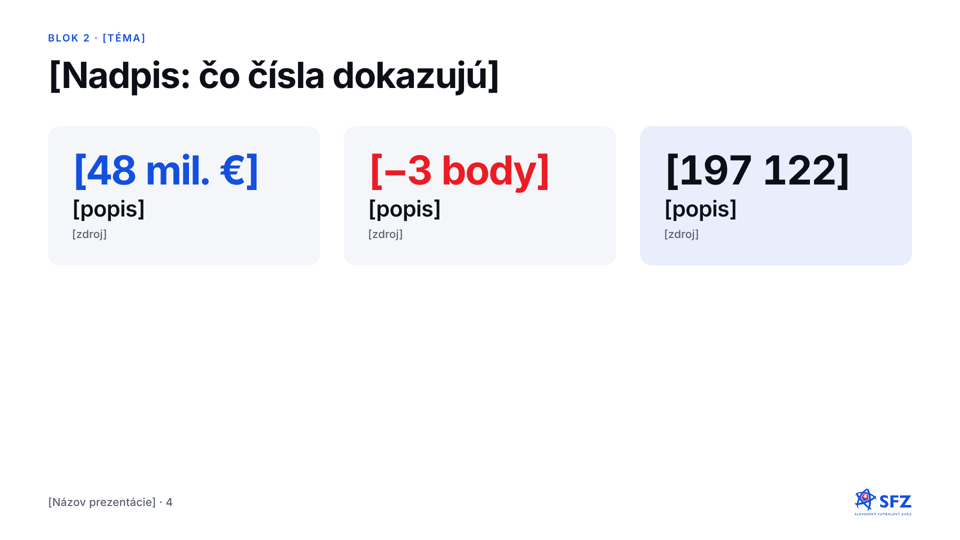
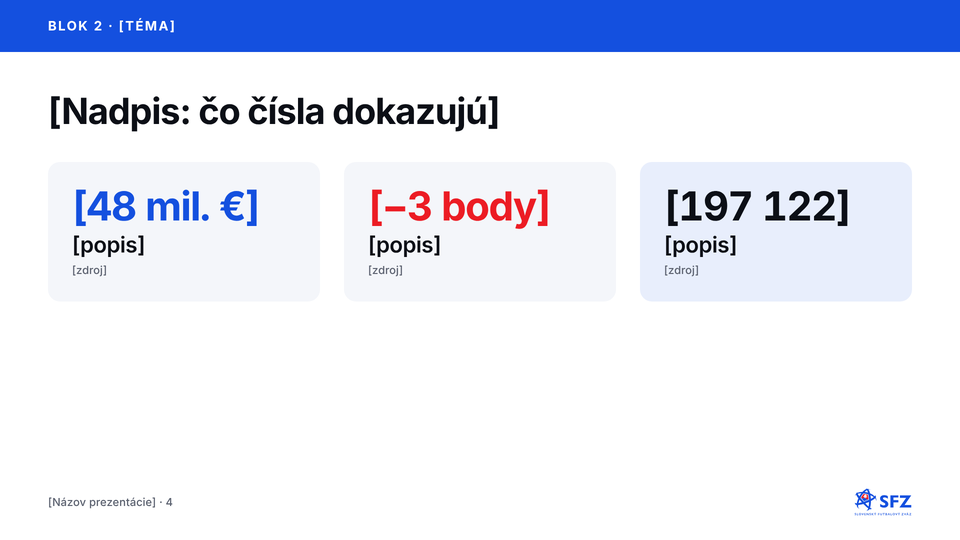
feat(prezentacie): modrý pás v hlavičke a zoznam s linkou LinkList (v1.3.0)
- obsahový slajd má hore modrý pás s textom „Blok · téma“ (SlideContent, šablóny 03 – 06)
- nový vzor LinkList namiesto klasických odrážok: linka, tučný začiatok, vysvetlenie
- tokeny slide-band, slide-list-title, slide-list-text, slide-band-height
- brand book, skill sfz-prezentacia, náhľady artefaktu a šablón

Claude-Session: https://claude.ai/code/session_01EYacRGPfmiPsmKofyGSWUe

diff --git a/docs/artefakt/components/SlideContent/preview.html b/docs/artefakt/components/SlideContent/preview.html
@@ -1,33 +1,32 @@
-<!-- @dsCard group="Slajdy" height=320 width=1920 subtitle="Bežný slajd s obsahom" -->
+<!-- @dsCard group="Slajdy" height=320 width=1920 subtitle="Bežný slajd s modrým pásom a zoznamom s linkou" -->
 <style>
 *{box-sizing:border-box;margin:0}
 body{font-family:var(--font-sans);color:var(--ink);background:var(--surface);-webkit-font-smoothing:antialiased}
-.slide{width:1920px;height:1080px;position:relative;overflow:hidden;padding:64px 96px}
-.slide.blue{background:var(--surface-brand);color:var(--on-brand)}
-.foot{position:absolute;left:96px;right:96px;bottom:48px;display:flex;justify-content:space-between;align-items:center}
+.slide{width:1920px;height:1080px;position:relative;overflow:hidden;padding:184px 128px 160px;display:flex;flex-direction:column;gap:48px}
+.band{position:absolute;left:0;top:0;width:100%;height:var(--slide-band-height);background:var(--surface-brand);display:flex;align-items:center;padding:0 128px}
+.band p{color:var(--on-brand);text-transform:uppercase}
+.foot{position:absolute;left:128px;right:128px;bottom:64px;display:flex;justify-content:space-between;align-items:center}
 .foot img{height:56px}
-.eyebrow{text-transform:uppercase;color:var(--brand-blue)}
-.blue .eyebrow{color:var(--on-brand-muted)}
 .muted{color:var(--ink-muted)}
-.blue .muted{color:var(--on-brand-muted)}
 .tn{font-variant-numeric:tabular-nums}
+.ll{display:flex;flex-direction:column;gap:20px}
+.li{border-left:6px solid var(--brand-blue-ink);padding-left:24px;display:flex;flex-direction:column;gap:4px}
 </style>
 <div class="slide">
-  <div class="slide-eyebrow eyebrow" style="margin-bottom:24px">Blok 1 · Stav v roku 2010</div>
-  <h1 class="slide-h1" style="max-width:1500px;text-wrap:balance">„44 futbalov“ – každý zväz si viedol agendu po svojom</h1>
-  <div style="display:grid;grid-template-columns:7fr 5fr;gap:48px;margin-top:64px">
-    <ul class="slide-body" style="padding-left:40px;display:grid;gap:16px">
-      <li>46 organizácií: SFZ, ÚLK, futsal, 4 regionálne a 38 oblastných zväzov</li>
-      <li>Papierové zápisy poštou, oficiálne výsledky vo štvrtok</li>
-      <li>Šeky, rady na preukazy, e‑mail nebol oficiálne uznaný</li>
-      <li>Finančná disciplína klubov takmer nulová</li>
-    </ul>
+  <div class="band"><p class="slide-band">Blok 1 · Rok 2010</p></div>
+  <h1 class="slide-h1" style="max-width:1600px;text-wrap:balance">„44 futbalov“: každý zväz si viedol agendu po svojom</h1>
+  <div style="display:grid;grid-template-columns:7fr 5fr;gap:48px">
+    <div class="ll">
+      <div class="li"><div class="slide-list-title">Futbal je malá „štátna správa“</div><div class="slide-list-text muted">SFZ, ÚLK, futsal, plážový futbal, 4 regionálne a 38 oblastných zväzov</div></div>
+      <div class="li"><div class="slide-list-title">Papierové zápisy o stretnutí poštou</div><div class="slide-list-text muted">oficiálne výsledky najskôr vo štvrtok</div></div>
+      <div class="li"><div class="slide-list-title">E‑mail nebol oficiálne akceptovaný</div><div class="slide-list-text muted">podania sa „strácali“ a neriešili</div></div>
+    </div>
     <div style="background:var(--surface-raised);border-radius:var(--radius-lg);padding:48px;display:flex;flex-direction:column;justify-content:center;gap:16px">
-      <div class="slide-stat tn" style="color:var(--brand-blue)">46</div>
+      <div class="slide-stat tn" style="color:var(--brand-blue-ink)">46</div>
       <div class="slide-h2">organizácií riadilo futbal</div>
       <div class="slide-caption muted">42 z nich mimo Bratislavy</div>
     </div>
   </div>
-  <div class="foot"><span class="slide-caption muted">Digitalizácia slovenského futbalu · 4</span><img src="../../../../brand/logos/Loga-SFZ/sfz-D-farebne.svg" alt=""></div>
+  <div class="foot"><span class="slide-caption muted">Digitalizácia slovenského futbalu · 5</span><img src="../../../../brand/logos/Loga-SFZ/sfz-D-farebne.svg" alt=""></div>
 </div>
 <script>/* statický vzor */</script>

diff --git a/docs/artefakt/components/LinkList/preview.html b/docs/artefakt/components/LinkList/preview.html
@@ -1,0 +1,35 @@
+<!-- @dsCard group="Slajdy" height=420 width=1920 subtitle="Zoznam s linkou namiesto odrážok" -->
+<style>
+*{box-sizing:border-box;margin:0}
+body{font-family:var(--font-sans);color:var(--ink);background:var(--surface);-webkit-font-smoothing:antialiased}
+.wrap{padding:48px 96px;display:grid;grid-template-columns:1fr 1fr;gap:48px}
+.card{border-radius:var(--radius-lg);padding:40px;display:flex;flex-direction:column;gap:16px}
+.tint{background:var(--brand-blue-tint)}
+.raised{background:var(--surface-raised)}
+.card h3{font-size:36px;line-height:1.15;font-weight:700;letter-spacing:-0.01em}
+.tint h3{color:var(--brand-blue-ink)}
+.ll{display:flex;flex-direction:column;gap:16px}
+.li{border-left:6px solid var(--brand-blue-ink);padding-left:24px;display:flex;flex-direction:column;gap:4px}
+.li.neutral{border-left-color:var(--grey-9)}
+.li .t{color:var(--ink)}
+.li .d{color:var(--ink-muted)}
+</style>
+<div class="wrap">
+  <div class="card tint">
+    <h3>Čo fungovalo</h3>
+    <div class="ll">
+      <div class="li"><div class="slide-list-title t">Viac ako 200 školení</div><div class="slide-list-text d">osobne, po celom Slovensku; ľudia museli uveriť</div></div>
+      <div class="li"><div class="slide-list-title t">Slovník publika</div><div class="slide-list-text d">po prvej prezentácii v ObFZ Prievidza mi prezident zakázal slová „implementácia“ a „fulltime“</div></div>
+      <div class="li"><div class="slide-list-title t">Výsledok hneď</div><div class="slide-list-text d">report na pár klikov, výsledky do 24 hodín</div></div>
+    </div>
+  </div>
+  <div class="card raised">
+    <h3>Čoho sa všetci báli – a nestalo sa</h3>
+    <div class="ll">
+      <div class="li neutral"><div class="slide-list-title t">„Nemáme počítače“</div><div class="slide-list-text d">zo zvýhodnenej akcie sa nepredalo ani 300 notebookov na takmer 1 800 klubov</div></div>
+      <div class="li neutral"><div class="slide-list-title t">„Nemáme internet“</div><div class="slide-list-text d">rozhodcovia chodili robiť zápis do najbližšej krčmy s wifi – a zvládli to</div></div>
+      <div class="li neutral"><div class="slide-list-title t">„Starí funkcionári to nezvládnu“</div><div class="slide-list-text d">vekový priemer klubových manažérov výrazne klesol</div></div>
+    </div>
+  </div>
+</div>
+<script>/* statický vzor */</script>

diff --git a/templates/prezentacie/03-obsah.html b/templates/prezentacie/03-obsah.html
@@ -8,19 +8,17 @@
 <link rel="stylesheet" href="slide.css">
 </head>
 <body>
-<!-- Eyebrow, nadpis, max. 5 odrážok vľavo, voliteľná karta s číslom vpravo (mriežka 7+5). -->
+<!-- Modrý pás (blok · téma), nadpis, zoznam s linkou (max. 5 položiek) vľavo, voliteľná karta s číslom vpravo (mriežka 7+5). -->
 <div class="stage">
-<section class="slide">
-  <div style="display:grid;gap:var(--space-5)">
-    <p class="slide-eyebrow eyebrow">Blok 1 · [téma]</p>
-    <h2 class="slide-h1" style="max-width:1600px">[Nadpis slajdu – jedna myšlienka, max. dva riadky]</h2>
-  </div>
+<section class="slide slide--content">
+  <div class="band"><p class="slide-band">Blok 1 · [téma]</p></div>
+  <h2 class="slide-h1" style="max-width:1600px">[Nadpis slajdu – jedna myšlienka, max. dva riadky]</h2>
   <div class="grid-7-5">
-    <ul class="slide-body bullets">
-      <li>[Odrážka – max. dva riadky]</li>
-      <li>[Odrážka]</li>
-      <li>[Odrážka]</li>
-      <li>[Odrážka]</li>
+    <ul class="linklist">
+      <li><span class="slide-list-title">[Tučný začiatok – pointa]</span><span class="slide-list-text d">[Vysvetlenie s faktami: miesto, počet, dôsledok – max. dva riadky]</span></li>
+      <li><span class="slide-list-title">[Tučný začiatok]</span><span class="slide-list-text d">[Vysvetlenie]</span></li>
+      <li><span class="slide-list-title">[Tučný začiatok]</span><span class="slide-list-text d">[Vysvetlenie]</span></li>
+      <li><span class="slide-list-title">[Tučný začiatok]</span><span class="slide-list-text d">[Vysvetlenie]</span></li>
     </ul>
     <div class="card" style="justify-content:center">
       <p class="slide-stat stat tn">[46]</p>

diff --git a/templates/prezentacie/index.html b/templates/prezentacie/index.html
@@ -27,7 +27,7 @@
 <main>
   <a class="tile" href="01-titul.html"><img src="nahlady/01-titul.png" alt=""><span class="headline">Titulný slajd</span><span class="footnote">Raz na začiatok prezentácie.</span></a>
   <a class="tile" href="02-predel.html"><img src="nahlady/02-predel.png" alt=""><span class="headline">Predel bloku</span><span class="footnote">Začiatok každého bloku.</span></a>
-  <a class="tile" href="03-obsah.html"><img src="nahlady/03-obsah.png" alt=""><span class="headline">Obsahový slajd</span><span class="footnote">Max. 5 odrážok a karta s číslom.</span></a>
+  <a class="tile" href="03-obsah.html"><img src="nahlady/03-obsah.png" alt=""><span class="headline">Obsahový slajd</span><span class="footnote">Modrý pás, zoznam s linkou (max. 5) a karta s číslom.</span></a>
   <a class="tile" href="04-cisla.html"><img src="nahlady/04-cisla.png" alt=""><span class="headline">Kľúčové čísla</span><span class="footnote">Max. 3 dlaždice, jedno číslo červené.</span></a>
   <a class="tile" href="05-casova-os.html"><img src="nahlady/05-casova-os.png" alt=""><span class="headline">Časová os</span><span class="footnote">Max. 6 bodov, pointa červená.</span></a>
   <a class="tile" href="06-citat.html"><img src="nahlady/06-citat.png" alt=""><span class="headline">Citát a karty</span><span class="footnote">Tvrdenie a citát vedľa seba.</span></a>

diff --git a/templates/prezentacie/slide.css b/templates/prezentacie/slide.css
@@ -46,7 +46,18 @@ h1, h2, h3 { text-wrap: balance; }
 .card--highlight { background: var(--brand-blue-tint); }
 .stat { color: var(--brand-blue-ink); }
 .stat--red { color: var(--brand-red); }
-ul.bullets { padding-left: 40px; display: grid; gap: var(--space-4); }
+ul.bullets { padding-left: 40px; display: grid; gap: var(--space-4); } /* zastarané od 1.3.0 – používajte .linklist */
+
+/* Modrý pás hlavičky obsahového slajdu: blok · téma (od 1.3.0). Titul, predel a záver ho nemajú. */
+.slide--content { padding-top: calc(var(--slide-band-height) + 80px); }
+.band { position: absolute; left: 0; right: 0; top: 0; height: var(--slide-band-height); background: var(--surface-brand); display: flex; align-items: center; padding: 0 var(--space-9); }
+.band p { color: var(--on-brand); text-transform: uppercase; }
+
+/* Zoznam s linkou (LinkList) namiesto klasických odrážok: tučný začiatok + vysvetlenie (od 1.3.0) */
+.linklist { list-style: none; padding: 0; display: grid; gap: var(--space-5); align-content: start; }
+.linklist li { border-left: 6px solid var(--brand-blue-ink); padding-left: var(--space-5); display: grid; gap: var(--space-1); }
+.linklist li.neutral { border-left-color: var(--grey-9); }
+.linklist .d { color: var(--ink-muted); }
 
 /* Časová os */
 .timeline { position: relative; padding-top: var(--space-6); }

diff --git a/tokens/tokens.css b/tokens/tokens.css
@@ -135,6 +135,7 @@
   --touch-target: 44px;
   --tabbar-height: 56px;
   --navbar-height: 64px;
+  --slide-band-height: 104px;
   --radius-xs: 6px;
   --radius-sm: 8px;
   --radius-md: 14px;
@@ -170,6 +171,12 @@
 .slide-caption { font-family: var(--font-sans); font-size: 22px; line-height: 1.3; font-weight: 500; letter-spacing: 0.01em; }
 
 .slide-eyebrow { font-family: var(--font-sans); font-size: 20px; line-height: 1.2; font-weight: 600; letter-spacing: 0.12em; }
+
+.slide-band { font-family: var(--font-sans); font-size: 26px; line-height: 1.2; font-weight: 700; letter-spacing: 0.12em; }
+
+.slide-list-title { font-family: var(--font-sans); font-size: 28px; line-height: 1.3; font-weight: 700; }
+
+.slide-list-text { font-family: var(--font-sans); font-size: 24px; line-height: 1.35; font-weight: 400; }
 
 .large-title { font-family: var(--font-sans); font-size: 34px; line-height: 41px; font-weight: 700; letter-spacing: 0.37px; }
 

diff --git a/templates/prezentacie/04-cisla.html b/templates/prezentacie/04-cisla.html
@@ -10,11 +10,9 @@
 <body>
 <!-- Max. 3 dlaždice; najviac jedno číslo červené, jedna dlaždica zvýraznená. -->
 <div class="stage">
-<section class="slide">
-  <div style="display:grid;gap:var(--space-5)">
-    <p class="slide-eyebrow eyebrow">Blok 2 · [téma]</p>
-    <h2 class="slide-h1" style="max-width:1600px">[Nadpis: čo čísla dokazujú]</h2>
-  </div>
+<section class="slide slide--content">
+  <div class="band"><p class="slide-band">Blok 2 · [téma]</p></div>
+  <h2 class="slide-h1" style="max-width:1600px">[Nadpis: čo čísla dokazujú]</h2>
   <div class="grid-3">
     <div class="card"><p class="slide-stat stat tn">[48 mil. €]</p><p class="slide-h2">[popis]</p><p class="slide-caption muted">[zdroj]</p></div>
     <div class="card"><p class="slide-stat stat--red tn">[−3 body]</p><p class="slide-h2">[popis]</p><p class="slide-caption muted">[zdroj]</p></div>

diff --git a/templates/prezentacie/06-citat.html b/templates/prezentacie/06-citat.html
@@ -10,11 +10,9 @@
 <body>
 <!-- Dve karty vedľa seba: tvrdenie s vysvetlením a citát v slovenských úvodzovkách. -->
 <div class="stage">
-<section class="slide">
-  <div style="display:grid;gap:var(--space-5)">
-    <p class="slide-eyebrow eyebrow">Blok 2 · [téma]</p>
-    <h2 class="slide-h1" style="max-width:1600px">[Nadpis]</h2>
-  </div>
+<section class="slide slide--content">
+  <div class="band"><p class="slide-band">Blok 2 · [téma]</p></div>
+  <h2 class="slide-h1" style="max-width:1600px">[Nadpis]</h2>
   <div class="grid-2">
     <div class="card"><h3 class="slide-h2">[Tvrdenie]</h3><p class="slide-body muted">[Vysvetlenie v jednej až dvoch vetách.]</p></div>
     <div class="card card--highlight" style="justify-content:center"><p class="slide-h2" style="font-weight:500">„[Citát]“</p><p class="slide-caption muted">[autor, rok]</p></div>

diff --git a/templates/prezentacie/05-casova-os.html b/templates/prezentacie/05-casova-os.html
@@ -10,11 +10,9 @@
 <body>
 <!-- Max. 6 bodov; pointa slajdu (jeden bod) je červená. -->
 <div class="stage">
-<section class="slide">
-  <div style="display:grid;gap:var(--space-5)">
-    <p class="slide-eyebrow eyebrow">Blok 1 · [obdobie]</p>
-    <h2 class="slide-h1" style="max-width:1600px">[Nadpis časovej osi]</h2>
-  </div>
+<section class="slide slide--content">
+  <div class="band"><p class="slide-band">Blok 1 · [obdobie]</p></div>
+  <h2 class="slide-h1" style="max-width:1600px">[Nadpis časovej osi]</h2>
   <div class="timeline"><ol>
     <li><span class="slide-h2 y tn">2010</span><span class="slide-caption">[udalosť]</span></li>
     <li><span class="slide-h2 y tn">2011</span><span class="slide-caption">[udalosť]</span></li>

diff --git a/docs/skills/sfz-prezentacia/SKILL.md b/docs/skills/sfz-prezentacia/SKILL.md
@@ -26,7 +26,9 @@ Potom navrhni osnovu (bloky, minutáž, počet slajdov) a počkaj na schválenie
 
 1. **Titul** – modrá plocha, eyebrow s miestom a dátumom, názov, podtitul, meno v päte.
 2. **Predel bloku** – modrá plocha, „Blok N · obdobie · minúty“, názov bloku, jedna veta; každý blok začína predelom.
-3. **Obsahový slajd** – biela plocha, eyebrow (blok · téma), nadpis s jednou myšlienkou (max. 2 riadky), max. 5 odrážok, voliteľne karta s číslom vpravo (mriežka 7+5).
+3. **Obsahový slajd** – biela plocha, hore modrý pás na celú šírku (104 px, `surface-brand`) s bielym textom „Blok N · téma“ verzálkami, pod ním nadpis s jednou myšlienkou (max. 2 riadky), zoznam max. 5 položiek, voliteľne karta s číslom vpravo (mriežka 7+5).
+   - **Žiadne klasické odrážky.** Zoznam je vždy vzor `LinkList`: zvislá linka 6 px vľavo (`brand-blue-ink`, neutrálny stĺpec `grey-9`), tučný začiatok (`slide-list-title`, 28 px) a pod ním vysvetlenie (`slide-list-text`, 24 px, `ink-muted`). Dôležité fakty (miesto, počet, historka) patria do vysvetlenia na slajde, nie len do poznámok.
+   - Lekcia alebo pointa: karta `brand-blue-tint` s tučným modrým začiatkom („Lekcia pre manažment: …“).
 4. **Kľúčové čísla** – max. 3 dlaždice; najviac jedno číslo červené, jedna dlaždica zvýraznená modrým tintom.
 5. **Časová os** – max. 6 bodov, pointa červená.
 6. **Citát a karty** – tvrdenie + citát v slovenských úvodzovkách „ “.
@@ -50,5 +52,6 @@ Ak ide o vystúpenie, ponúkni aj jednostranovú A4 osnovu (PDF): minutáž po b
 ## 6. Kontrola pred odovzdaním
 
 - Počet slajdov zodpovedá dĺžke (cca 1 slajd na 2 minúty).
-- Každý blok má predel, každý slajd pätu s logom.
+- Každý blok má predel, každý slajd pätu s logom, každý biely obsahový slajd modrý pás hore.
+- Na žiadnom slajde nie sú klasické odrážky (`<ul>` s bodkami); zoznamy sú `LinkList`.
 - Všetky čísla majú zdroj; neznáme hodnoty sú označené a vypísané v odpovedi.

diff --git a/docs/brand-book.md b/docs/brand-book.md
@@ -37,7 +37,7 @@ Design systém Slovenského futbalového zväzu pre prezentácie, dokumenty a we
 - Dotykové ciele min. `touch-target` 44 px. Zoskupené zoznamy ako iOS Settings: `surface-raised`, `radius-md`, riadky oddelené `hairline`.
 - Rádiusy: `radius-xs` 6 (checkbox), `radius-sm` 8 (chip), `radius-md` 14 (tlačidlá, vstupy), `radius-lg` 24 (karty), `radius-xl` 40 (veľké panely), `radius-pill`.
 - Tiene takmer nepoužívame; hierarchiu robí `surface-raised`. `shadow-float` pre plávajúce prvky, `shadow-modal` pre dialógy.
-- Slajd: bezpečná zóna 96 px zľava/sprava, 64 px zhora/zdola, logo D v päte 56 px.
+- Slajd: okraje 128 px zľava/sprava, päta 64 px od spodku, logo D v päte 56 px. Obsahový slajd má hore modrý pás `slide-band-height` (104 px) s textom `slide-band`; obsah začína 80 px pod ním.
 
 ## Komponenty pre web (React)
 
@@ -78,4 +78,4 @@ Pravidlá: jedno `primary` tlačidlo na obrazovku; stav vždy slovom + farbou; p
 
 ## Komponenty pre slajdy
 
-HTML vzory 1920×1080 (nie React): `SlideTitle`, `SlideSection`, `SlideContent`, `StatTile`, `Timeline`, `LogoLockup`. Karta a chip na slajde sú webové `Card` a `Chip` v mierke ×1,6 (rádius `radius-lg`, odstup `space-7`, text `slide-body`); pravidlá sú v ich README.
+HTML vzory 1920×1080 (nie React): `SlideTitle`, `SlideSection`, `SlideContent` (s modrým pásom hore), `LinkList`, `StatTile`, `Timeline`, `LogoLockup`. Na slajdoch nepoužívame klasické odrážky: zoznam je vždy `LinkList` – zvislá linka, tučný začiatok (`slide-list-title`) a vysvetlenie (`slide-list-text`). Karta a chip na slajde sú webové `Card` a `Chip` v mierke ×1,6 (rádius `radius-lg`, odstup `space-7`, text `slide-body`); pravidlá sú v ich README.

diff --git a/docs/prezentacie/SlideContent.md b/docs/prezentacie/SlideContent.md
@@ -1,7 +1,9 @@
 # SlideContent
 
-Bežný svetlý slajd: eyebrow (`slide-eyebrow` v `brand-blue`), nadpis (`slide-h1`, max. dva riadky), obsah v mriežke 7+5 alebo 4+4+4 s medzerou `space-7`. Päta: názov prezentácie a číslo slajdu vľavo (`slide-caption`, `ink-muted`), logo D farebné vpravo (56 px).
+Bežný svetlý slajd s modrým pásom hore: pás `surface-brand` na celú šírku, výška `slide-band-height` (104 px), v ňom text `slide-band` v `on-brand` (blok · téma, verzálky, od ľavého okraja 128 px). Pod pásom nadpis (`slide-h1`, max. dva riadky) a obsah v mriežke 7+5, 6+6 alebo 4+4+4 s medzerou `space-7`. Päta: názov prezentácie a číslo slajdu vľavo (`slide-caption`, `ink-muted`), logo D farebné vpravo (56 px).
 
-- Max. 5 odrážok v `slide-body`, každá do dvoch riadkov.
-- Pravý stĺpec je voliteľný: `StatTile`, obrázok (`radius-xl`) alebo `Card`.
-- Bezpečná zóna 96 px zľava a sprava, 64 px zhora; nič mimo nej.
+- Obsah začína 80 px pod pásom (horný odstup slajdu 184 px), okraje 128 px zľava a sprava, päta 64 px od spodku.
+- Pás majú všetky biele obsahové slajdy; titul, predel bloku a záver sú celé modré a pás nemajú.
+- Zoznamy vždy ako `LinkList` (zvislá linka, tučný začiatok, vysvetlenie), nie klasické odrážky. Max. 5 položiek.
+- Pravý stĺpec je voliteľný: `StatTile`, obrázok (`radius-lg`) alebo `Card`.
+- Lekcia alebo pointa slajdu: karta `brand-blue-tint` s tučným modrým začiatkom („Lekcia pre manažment:“).
